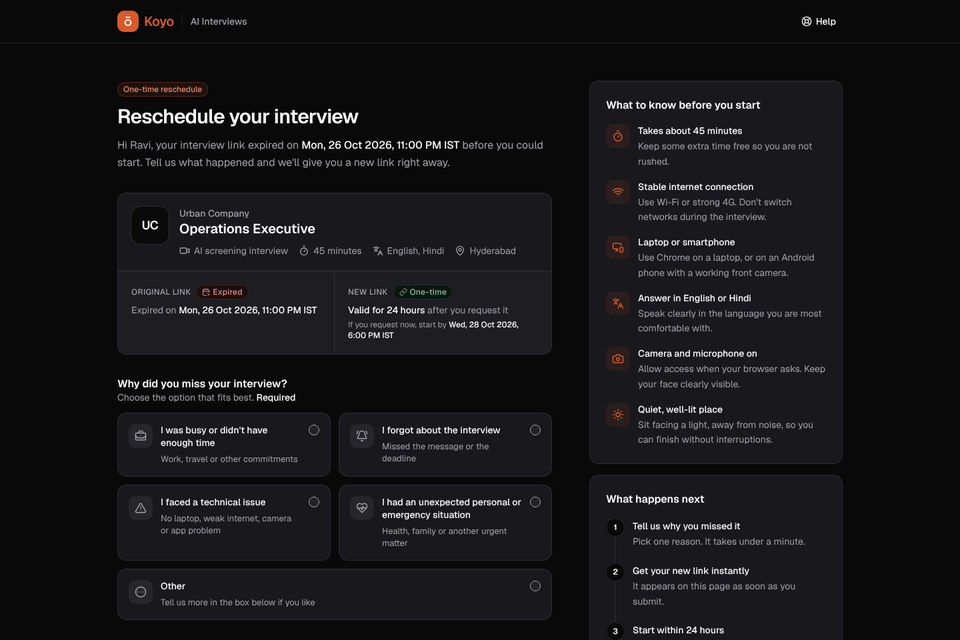
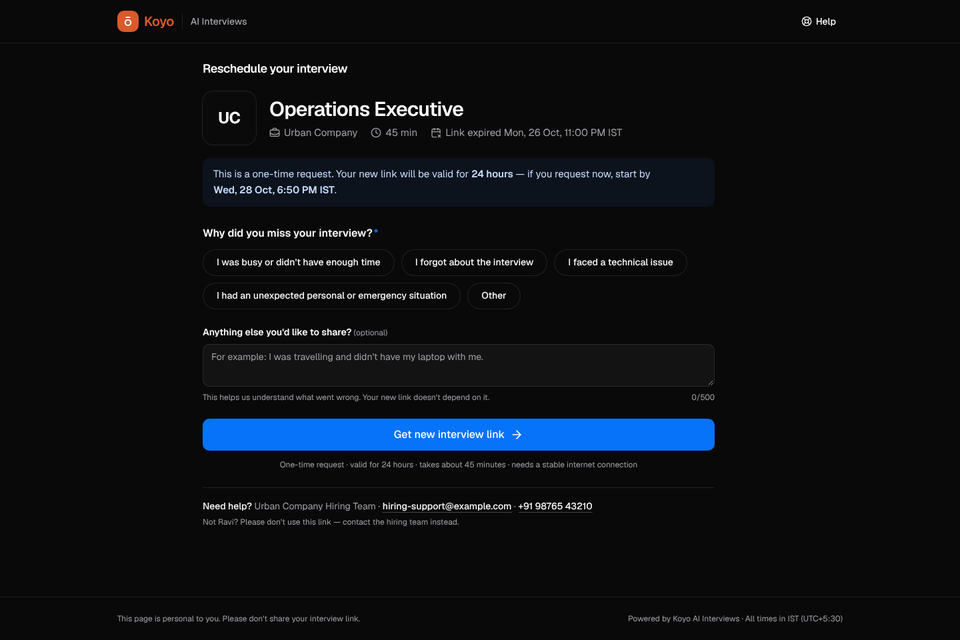
Polish minimal rescheduling page
- Reason pills behave as a radio group (arrow keys, Home/End, one tab
  stop) and keep their width when selected, so rows never reflow.
- The note placeholder follows the chosen reason, and on phones the
  action bar stays pinned without hiding focused fields.
- New-link banner carries the deadline, countdown (amber under 3 hours)
  and the no-further-rescheduling line; support-only states show
  Email and Call actions.
- Blue hover darkens instead of lightening to keep white text readable.
- Refresh registry JSON, catalog thumbnails and the handoff doc for the
  new layout and the Grauity prototype.

Claude-Session: https://claude.ai/code/session_01Kyu6NnkJgf82HvLqMiHvDq

diff --git a/src/components/shadcn-studio/blocks/interview-reschedule-01/reschedule-form.tsx b/src/components/shadcn-studio/blocks/interview-reschedule-01/reschedule-form.tsx
@@ -1,7 +1,7 @@
 'use client'
 
 // React Imports
-import type { FormEvent, KeyboardEvent, RefObject } from 'react'
+import type { FocusEvent, FormEvent, KeyboardEvent, RefObject } from 'react'
 import { useId, useRef, useState } from 'react'
 
 // Third-party Imports
@@ -74,7 +74,7 @@ export const OneTimeBanner = ({ interview }: { interview: InterviewDetails }) =>
           <>
             {' '}
             — if you request now, start by{' '}
-            <time dateTime={projectedExpiry} className='font-semibold'>
+            <time dateTime={projectedExpiry} className='font-semibold whitespace-nowrap'>
               {formatIST(projectedExpiry, { withYear: false })}
             </time>
             .
@@ -144,8 +144,8 @@ const ReasonPills = ({ value, onChange, invalid, labelId, errorId, groupRef }: R
       {reasons.map((reason, index) => {
         const selected = reason.id === value
 
-        // The check (14px + 4px gap) takes the place of 8px of padding on each side, so selecting a pill
-        // never changes its width or reflows the rows.
+        // The check (14px icon + 4px gap) replaces 18px of side padding, so selecting a pill never
+        // changes its width or reflows the rows.
 
         return (
           <button
@@ -188,6 +188,7 @@ const RescheduleForm = ({ interview, onSubmit }: Props) => {
 
   // Refs
   const reasonGroupRef = useRef<HTMLDivElement>(null)
+  const actionBarRef = useRef<HTMLDivElement>(null)
   const submittingRef = useRef(false)
 
   // Hooks
@@ -232,8 +233,23 @@ const RescheduleForm = ({ interview, onSubmit }: Props) => {
     }
   }
 
+  // On phones the action bar is pinned over the bottom of the screen, and browsers only scroll a focused
+  // field into view when it's off-screen. Nudge the page when a field lands behind the bar.
+  const keepClearOfActionBar = (event: FocusEvent<HTMLFormElement>) => {
+    const bar = actionBarRef.current
+    const field = event.target
+
+    if (!bar || bar.contains(field) || getComputedStyle(bar).position !== 'sticky') return
+
+    requestAnimationFrame(() => {
+      const overlap = field.getBoundingClientRect().bottom + 12 - bar.getBoundingClientRect().top
+
+      if (overlap > 0) window.scrollBy({ top: overlap })
+    })
+  }
+
   return (
-    <form noValidate onSubmit={handleSubmit} className='space-y-6'>
+    <form noValidate onSubmit={handleSubmit} onFocus={keepClearOfActionBar} className='space-y-6'>
       <fieldset disabled={submitting} className='space-y-6'>
         <div className='space-y-3'>
           <p id={labelId} className='text-base font-semibold'>
@@ -281,7 +297,7 @@ const RescheduleForm = ({ interview, onSubmit }: Props) => {
             aria-describedby={explanationHintId}
             placeholder={placeholder}
             className={cn(
-              'min-h-[4.5rem] resize-y',
+              'min-h-16 resize-y',
               'focus-visible:border-koyo-color-brand-500 focus-visible:ring-[color-mix(in_oklab,var(--koyo-color-brand-500)_25%,transparent)]',
               clearOfActionBar
             )}
@@ -303,7 +319,10 @@ const RescheduleForm = ({ interview, onSubmit }: Props) => {
       )}
 
       {/* Pinned to the bottom of the screen on phones, so the action is always in reach. */}
-      <div className='bg-background/95 space-y-3 max-md:sticky max-md:bottom-0 max-md:z-10 max-md:-mx-4 max-md:border-t max-md:px-4 max-md:pt-3 max-md:pb-[calc(0.75rem+env(safe-area-inset-bottom))] max-md:backdrop-blur-md sm:max-md:-mx-6 sm:max-md:px-6 md:bg-transparent'>
+      <div
+        ref={actionBarRef}
+        className='bg-background/95 space-y-3 max-md:sticky max-md:bottom-0 max-md:z-10 max-md:-mx-4 max-md:border-t max-md:px-4 max-md:pt-3 max-md:pb-[calc(0.75rem+env(safe-area-inset-bottom))] max-md:backdrop-blur-md sm:max-md:-mx-6 sm:max-md:px-6 md:bg-transparent'
+      >
         {!online && (
           <Callout tone='neutral' icon={WifiOffIcon} title='You’re offline.' role='alert'>
             Reconnect to the internet to get your new link. Your answers on this page are kept.
@@ -341,7 +360,7 @@ const RescheduleForm = ({ interview, onSubmit }: Props) => {
         {submitting ? 'Getting your new link. Please keep this page open.' : ''}
       </p>
 
-      <p className='text-muted-foreground -mt-3 text-center text-xs leading-relaxed text-balance max-md:mt-0'>
+      <p className='text-muted-foreground -mt-3 text-center text-xs leading-relaxed text-balance'>
         One-time request · valid for {interview.freshLinkValidityHours} hours · takes about{' '}
         {formatDuration(interview.durationMinutes)} · needs a stable internet connection
       </p>

diff --git a/src/components/shadcn-studio/blocks/interview-reschedule-01/fresh-link-view.tsx b/src/components/shadcn-studio/blocks/interview-reschedule-01/fresh-link-view.tsx
@@ -194,24 +194,22 @@ const FreshLinkView = ({
         tone={expired ? 'neutral' : urgent ? 'warning' : 'success'}
         icon={urgent ? HourglassIcon : CircleCheckBigIcon}
       >
-        <p className='flex flex-wrap items-baseline justify-between gap-x-4 gap-y-0.5'>
-          <span>
+        <div className='flex flex-wrap items-baseline justify-between gap-x-4 gap-y-0.5'>
+          <p>
             {urgent ? 'Start soon — before ' : 'Start your interview before '}
-            <time dateTime={freshLink.expiresAt} className='font-semibold'>
+            <time dateTime={freshLink.expiresAt} className='font-semibold whitespace-nowrap'>
               {formatIST(freshLink.expiresAt, { withYear: false })}
             </time>
-            {localTimeZone && (
-              <span className='opacity-80'> ({formatLocal(freshLink.expiresAt, localTimeZone)} your time)</span>
-            )}
-          </span>
+          </p>
           {remaining !== null && (
-            <span className='inline-flex items-center gap-1.5 font-semibold whitespace-nowrap tabular-nums'>
+            <p className='inline-flex items-center gap-1.5 font-semibold whitespace-nowrap tabular-nums'>
               {expired && <Spinner className='size-3.5' aria-hidden='true' role='presentation' />}
               {expired ? 'Checking…' : formatRemaining(remaining)}
-            </span>
+            </p>
           )}
-        </p>
-        <p className='text-[13px] opacity-85'>
+        </div>
+        <p className='text-[13px]'>
+          {localTimeZone && <>That&apos;s {formatLocal(freshLink.expiresAt, localTimeZone)} your time. </>}
           No further rescheduling — this was your one-time reschedule for this interview.
         </p>
       </Banner>

diff --git a/src/components/shadcn-studio/blocks/interview-reschedule-01/interview-summary.tsx b/src/components/shadcn-studio/blocks/interview-reschedule-01/interview-summary.tsx
@@ -3,7 +3,7 @@ import type { ReactNode, Ref } from 'react'
 
 // Third-party Imports
 import type { LucideIcon } from 'lucide-react'
-import { BriefcaseBusinessIcon, ClockIcon } from 'lucide-react'
+import { BriefcaseBusinessIcon, ClockIcon, CodeXmlIcon, VideoIcon } from 'lucide-react'
 
 // Util Imports
 import { cn } from '@/lib/utils'
@@ -47,8 +47,8 @@ const MetaItem = ({ icon: Icon, children }: { icon: LucideIcon; children: ReactN
 )
 
 /**
- * Company logo, role and one meta row (company · duration · an optional state detail such as the
- * expiry), so every state opens with the same recognisable summary of the invitation.
+ * Company logo, role and one meta row: company · duration · a state detail such as the expiry, or else
+ * the interview title (e.g. the round), so every state opens with the same summary of the invitation.
  */
 const InterviewSummary = ({ interview, detail }: { interview: InterviewDetails; detail?: MetaDetail }) => (
   <section
@@ -60,7 +60,11 @@ const InterviewSummary = ({ interview, detail }: { interview: InterviewDetails; 
     <ul className='text-muted-foreground col-span-2 flex flex-wrap gap-x-5 gap-y-1.5 text-sm sm:col-span-1 sm:col-start-2 sm:self-start sm:text-[15px]'>
       <MetaItem icon={BriefcaseBusinessIcon}>{interview.company.name}</MetaItem>
       <MetaItem icon={ClockIcon}>{formatDurationShort(interview.durationMinutes)}</MetaItem>
-      {detail && <MetaItem icon={detail.icon}>{detail.label}</MetaItem>}
+      {detail ? (
+        <MetaItem icon={detail.icon}>{detail.label}</MetaItem>
+      ) : (
+        <MetaItem icon={interview.kind === 'coding' ? CodeXmlIcon : VideoIcon}>{interview.title}</MetaItem>
+      )}
     </ul>
   </section>
 )

diff --git a/src/components/shadcn-studio/blocks/interview-reschedule-01/prototype-controls.tsx b/src/components/shadcn-studio/blocks/interview-reschedule-01/prototype-controls.tsx
@@ -20,7 +20,10 @@ type Props = {
   onRestart: () => void
 }
 
-/** Preview-only panel for walking through every PRD state. Not part of the candidate experience. */
+/**
+ * Preview-only panel for walking through every PRD state. Not part of the candidate experience. On phones
+ * the trigger is icon-only and sits in the header, clear of the page's pinned action bar.
+ */
 const PrototypeControls = ({ options, onChange, onRestart }: Props) => {
   return (
     <Popover>
@@ -28,11 +31,11 @@ const PrototypeControls = ({ options, onChange, onRestart }: Props) => {
         <Button
           variant='black'
           shape='round'
-          className='fixed right-4 bottom-4 z-50 h-10 px-4 shadow-lg sm:right-6 sm:bottom-6'
+          className='fixed top-3 right-[6.5rem] z-50 size-10 md:top-auto md:right-6 md:bottom-6 md:w-auto md:px-4 md:shadow-lg'
           aria-label='Open prototype controls'
         >
           <SlidersHorizontalIcon aria-hidden='true' />
-          Prototype
+          <span className='max-md:sr-only'>Prototype</span>
         </Button>
       </PopoverTrigger>
       <PopoverContent align='end' side='top' sideOffset={10} className='w-80 space-y-5 p-5'>

diff --git a/src/components/shadcn-studio/blocks/interview-reschedule-01/reschedule-ui.tsx b/src/components/shadcn-studio/blocks/interview-reschedule-01/reschedule-ui.tsx
@@ -32,7 +32,7 @@ export const toneStyle = (tone: Tone) =>
  */
 const tint = {
   banner:
-    'bg-[color-mix(in_oklab,var(--tone)_9%,var(--background))] text-[color-mix(in_oklab,var(--tone)_25%,var(--foreground))]',
+    'bg-[color-mix(in_oklab,var(--tone)_10%,var(--background))] text-[color-mix(in_oklab,var(--tone)_25%,var(--foreground))]',
   callout:
     'border-[color-mix(in_oklab,var(--tone)_30%,var(--background))] bg-[color-mix(in_oklab,var(--tone)_6%,var(--background))] text-[color-mix(in_oklab,var(--tone)_20%,var(--foreground))]',
   icon: 'text-[color-mix(in_oklab,var(--tone)_85%,var(--foreground))]'
@@ -142,7 +142,7 @@ export const NeedHelpLine = ({
         {support.email && (
           <>
             {' · '}
-            <a href={`mailto:${support.email}`} className={cn(linkClassName, 'break-all')}>
+            <a href={`mailto:${support.email}`} className={cn(linkClassName, 'break-words')}>
               {support.email}
             </a>
           </>

diff --git a/src/components/shadcn-studio/blocks/interview-reschedule-01/interview-reschedule-01.tsx b/src/components/shadcn-studio/blocks/interview-reschedule-01/interview-reschedule-01.tsx
@@ -319,14 +319,14 @@ export const InterviewReschedule = ({ api }: { api: RescheduleApi }) => {
       </p>
 
       <main className='flex-1'>
-        <div className='mx-auto max-w-4xl px-4 pt-6 pb-10 sm:px-6 sm:pt-8 lg:px-8'>
+        <div className='mx-auto max-w-4xl px-4 pt-6 pb-10 sm:px-6 lg:px-8'>
           <div className='max-w-3xl'>
             {main}
 
             {view.phase !== 'loading' && !(status && showsSupportActions(status)) && (
               <NeedHelpLine
                 support={support}
-                className='mt-8 border-t pt-5'
+                className='mt-6 border-t pt-4'
                 note={
                   status?.state === 'eligible' ? (
                     <>

diff --git a/docs/ai-interview-rescheduling.md b/docs/ai-interview-rescheduling.md
@@ -1,6 +1,6 @@
 # AI Interview Rescheduling: candidate UI
 
-Candidate-facing screens for **Smart Reminders & Rescheduling for AI Interviews** (PRD v1.0, 26 Oct 2026), built from Koyo UI components. Field notes from the Urban Company calling sheet shaped the copy, the reason hints and the readiness checklist. Every name, link and contact in the mock data is a placeholder.
+Candidate-facing screens for **Smart Reminders & Rescheduling for AI Interviews** (PRD v1.0, 26 Oct 2026), built from Koyo UI components. Field notes from the Urban Company calling sheet shaped the copy and the reason placeholders. Every name, link and contact in the mock data is a placeholder.
 
 ## What's in the repo
 
@@ -18,6 +18,18 @@ Both are listed in the catalog under **Blocks → AI Interview → Interview Res
        interview-completed | final-link-expired | ineligible | invalid-link | load-error
 &kind=operational | coding
 ```
+
+## Design direction
+
+After the first review the page was cut down to match the designer's mockup (OpenTable's "Modify your reservation"):
+
+- One column: a small state heading, the square company logo with the role and one meta row, then a tinted banner that carries the key message.
+- On the form, the blue banner says it's a one-time request valid for 24 hours, with the exact deadline if requested now.
+- Reasons are compact Uber-style pills with no icons, several per row; the optional note and a full-width blue "Get new interview link" button follow.
+- The "What to know before you start" panel, "What happens next" and the original-vs-new link box are gone. Need help is a single line.
+- The whole form fits above the fold at 1280×800; on phones the button is pinned to the bottom.
+
+A matching prototype built with real [Grauity](https://grauity.newtonschool.co) components (`@newtonschool/grauity`: `NSButton`, `NSTextArea`, `NSErrorMessage`, `NSIcon`, `NSTypography`, `NSPill`, Grauity tokens) lives outside this repo, because this repo type-checks every `.tsx` file against its Tailwind setup. It uses the same states, copy and mock API, so either can be handed to engineering.
 
 ## Screens and the PRD
 
@@ -46,7 +58,7 @@ One page renders the state the server returns (PRD §7: "logical screens… not 
 - Offline banner, with the CTA disabled.
 - Under 3 hours left: a warning that says "start", not "finish".
 - Coding interview on a phone: a laptop warning before submit and again on the confirmation.
-- In-app browser (WhatsApp, Instagram…): "Open in Chrome".
+- In-app browser (WhatsApp, Instagram…): "Open in Chrome" on the new-link screen.
 - Local time is shown next to IST when the device isn't in India.
 - "Not {first name}?" line on the form.
 
@@ -54,10 +66,10 @@ One page renders the state the server returns (PRD §7: "logical screens… not 
 
 - **CTA stays "Get New Interview Link"** (PRD §6.1, §7.1, §8), not "Get a demo link". "Demo" sounds like a practice run, and this button uses up the candidate's only reschedule.
 - **The deadline is "Start before {exact IST}".** The PRD only requires a _start_ before expiry; the candidate "may finish afterward under the existing interview-session rules". "Valid for 24 hours" is the explanation, and it appears in the bottom note.
-- **The one-time notice sits right above the CTA**, so it is read before submitting (§6.3). A shorter version repeats under the CTA ("One-time request · valid only for 24 hours", plus stable internet and duration), as requested. The confirmation repeats "No further rescheduling" (§8).
+- **The one-time notice is the blue banner above the reasons**, so it is read before submitting (§6.3). A short line under the CTA repeats it ("One-time request · valid for 24 hours", plus duration and stable internet), as requested. The new-link banner repeats "No further rescheduling" (§8).
 - **The deadline is shown before submit**, as a live "If you request now, start by …" line (§8 guardrail 1).
 - **Dates are always explicit.** Format: `Wed, 28 Oct 2026, 4:30 PM IST`. 12:xx AM gets "(Tuesday night)" and 12:00 PM gets "(noon)". Relative countdowns only ever appear next to the exact time.
-- **Reasons are the five agreed labels, word for word** (§6.2), each with a hint that maps real situations onto them. For example, "No laptop, weak internet, camera or app problem" sits under the technical-issue option. The explanation is always optional.
+- **Reasons are the five agreed labels, word for word** (§6.2), shown as pills. The note's placeholder changes with the chosen reason (technical issue → "I didn't have a laptop, or my internet kept dropping") to help candidates map real situations onto them. The note is always optional.
 - **The copy never implies** HR approval, a booked slot, or that anyone will act on the free text.
 
 ## Wiring it to the real service
@@ -87,7 +99,7 @@ type RescheduleApi = {
 
   Support details already exist in §10.
 
-- **Readiness checklist.** `getReadinessItems()` derives it from `kind`. Move the device and language lines to campaign config once Product confirms them (see Q3).
+- **Device rules.** Coding interviews show a laptop warning to phone users before and after requesting a link. Move device rules to campaign config once Product confirms them (see Q3).
 - **Analytics (§13).** A tap on Start Interview is not a start: the page stays on the link screen until the platform reports one.
 
 ## Edge cases handled in the UI
@@ -135,4 +147,4 @@ The PRD already answers several questions: the 24-hour validity is fixed, the fi
 10. Interview language per campaign (Telugu?), and page language (Hindi/Telugu translations)?
 11. A "test your camera and mic" check that doesn't count as a start, offered on the confirmation screen only? This is where a "demo link" idea could live without competing with the CTA.
 12. Branding and sender: Koyo, Newton School, or the hiring company first? What name do candidates see on WhatsApp?
-13. Mobile: keep the CTA inline right under the one-time notice (current), or add a sticky footer CTA (Airbnb pattern)?
+13. Interview title: the form's meta row drops the round ("Round 1 · AI coding interview") to stay on one line. Is company + role enough to tell invitations apart (AC-11), or should the round show there too?
